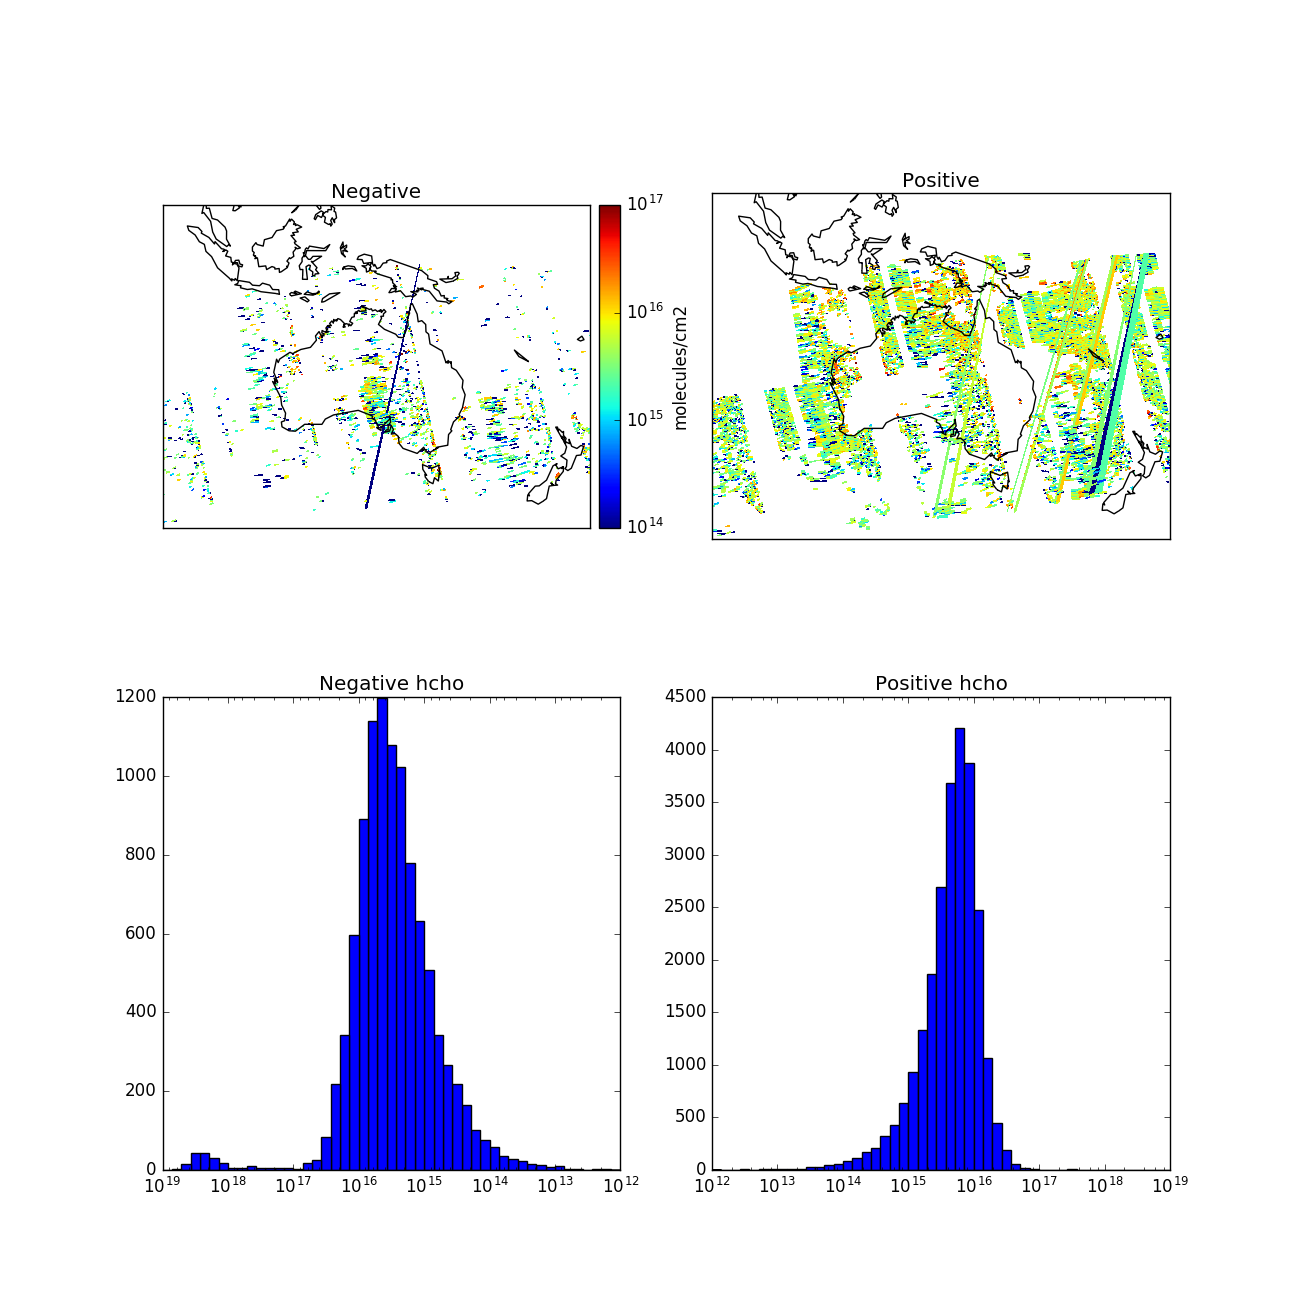
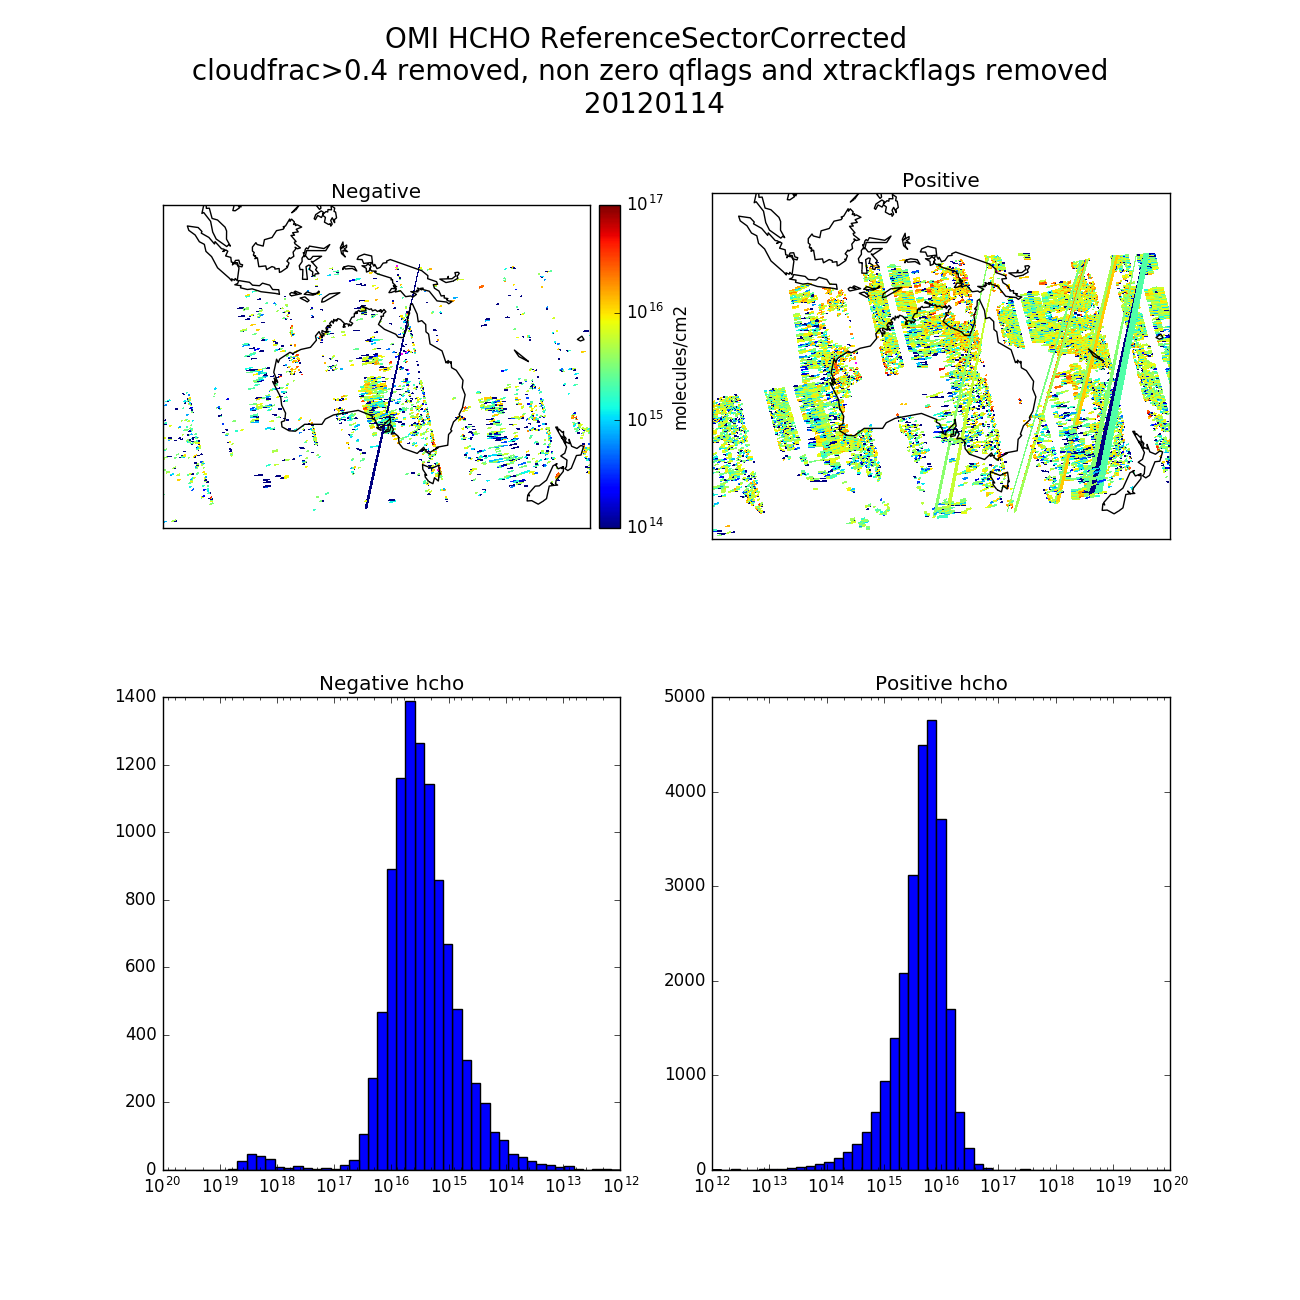
Updated singleday plots, more details

diff --git a/plot_stuff.py b/plot_stuff.py
@@ -74,7 +74,7 @@ def read_swath(fname, rsc=True, cloudy=0.4, cutlons=[80,200]):
     return Swath(hcho,lats,lons,qf,xqf,cld)
 
 class Day:
-    def __init__(self, day,rsc=True,cloudy=0.4):
+    def __init__(self, day,rsc=True,cloudy=0.4,verbose=False):
         pattern="%s*%4dm%02d%02d*.he5"%(_swathesfolder,day.year,day.month,day.day)
         filenames = glob.glob(pattern) # grab files matching pattern
         filenames.sort()
@@ -86,6 +86,10 @@ class Day:
         
         for fname in filenames:
             swath=(read_swath(fname, rsc=rsc,cloudy=cloudy))
+            if verbose:
+                print("Reading %s"%fname)
+                print("Shape: "+str(np.shape(swath.hcho)))
+                print("non-nans: %d"%np.sum(np.isnan(swath.hcho)))
             hcho.append(swath.hcho)
             lats.append(swath.lats)
             lons.append(swath.lons)
@@ -191,21 +195,19 @@ def plot_25_days(start=datetime(2012,1,1),rsc=True,cloudy=0.4):
     
 
 def examine_single_day(day=datetime(2012,1,14),cloudy=0.4,rsc=True):
+    
     f,axes=plt.subplots(2,2,figsize=(13,13))
-    
     plt.sca(axes[0,0])
-    
-    data=Day(day,rsc=rsc,cloudy=cloudy)
-    
+    data=Day(day,rsc=rsc,cloudy=cloudy,verbose=True)
     ymdstr="%4d%02d%02d"%(day.year,day.month,day.day)
+    
     # basemap over area of interest
     m=Basemap(llcrnrlat=-50, urcrnrlat=10, 
               llcrnrlon=90, urcrnrlon=180,
               resolution='c',projection='merc')
     
-    hcho=data.hcho
-    
     # look at plus and minus seperately
+    hcho=data.hcho
     plus=hcho.copy()
     plus[hcho < 0]=np.NaN
     minus=hcho.copy()
@@ -222,25 +224,27 @@ def examine_single_day(day=datetime(2012,1,14),cloudy=0.4,rsc=True):
     plons[hcho<0]=np.NaN
     nxi,nyi=m(nlons,nlats) # negative lats/lons
     pxi,pyi=m(plons,plats) # positive lats/lons
+    vmin,vmax=1e14,1e17
     
     # draw the negative CO total column onto the map
-    cs = m.pcolormesh(nxi,nyi,minus,vmin=1e14, vmax=1e17, norm=LogNorm())
+    cs = m.pcolormesh(nxi,nyi,minus,vmin=vmin,vmax=vmax, norm=LogNorm())
+    cs.cmap.set_over('fuchsia')
+    cs.set_clim(vmin, vmax)
     cb=m.colorbar(cs,"right",size="5%", pad="2%")
     cb.set_label('molecules/cm2')
     m.drawcoastlines()
     plt.title('Negative')
     
+    # draw positive HCHO without a colourbar
     plt.sca(axes[0,1])
-    cs = m.pcolormesh(pxi,pyi,plus,vmin=1e14,vmax=1e17, norm=LogNorm())
-    #cb=m.colorbar(cs,"right",size="5%", pad="2%")
-    #cb.set_label('molecules/cm2')
+    cs = m.pcolormesh(pxi,pyi,plus,vmin=vmin,vmax=vmax, norm=LogNorm())
     m.drawcoastlines()
     plt.title('Positive')
     
     # now do plus and minus log bins!
     minus=-1*hcho[hcho < 0]
     plus=hcho[hcho>0]
-    logbins=np.logspace(12,19,50)
+    logbins=np.logspace(12,20,50)
     plt.sca(axes[1,0])
     plt.hist(minus,bins=logbins)
     plt.xscale("log")
@@ -250,6 +254,7 @@ def examine_single_day(day=datetime(2012,1,14),cloudy=0.4,rsc=True):
     plt.hist(plus,bins=logbins)
     plt.xscale("log")
     plt.title('Positive hcho')
+    plt.suptitle('OMI HCHO %s \n cloudfrac>%3.1f removed, non zero qflags and xtrackflags removed \n %s'%(['ColumnAmount','ReferenceSectorCorrected'][rsc], cloudy,ymdstr),fontsize=20)
     plt.savefig("images/Swath%s_%s"%(['','rsc'][rsc],ymdstr))
     plt.close()
 
@@ -371,6 +376,8 @@ if __name__=="__main__":
     print("running")
     examine_single_day(cloudy=0.4, rsc=True)
     examine_single_day(cloudy=0.4, rsc=False)
+    examine_single_day(day=datetime(2012,1,18),rsc=False,cloudy=0.4)
+    examine_single_day(day=datetime(2013,3,18),rsc=False,cloudy=0.3)
     #negative_swath()
     #plot_25_days(rsc=True,cloudy=0.1)
     #compare_to_non_subset()
